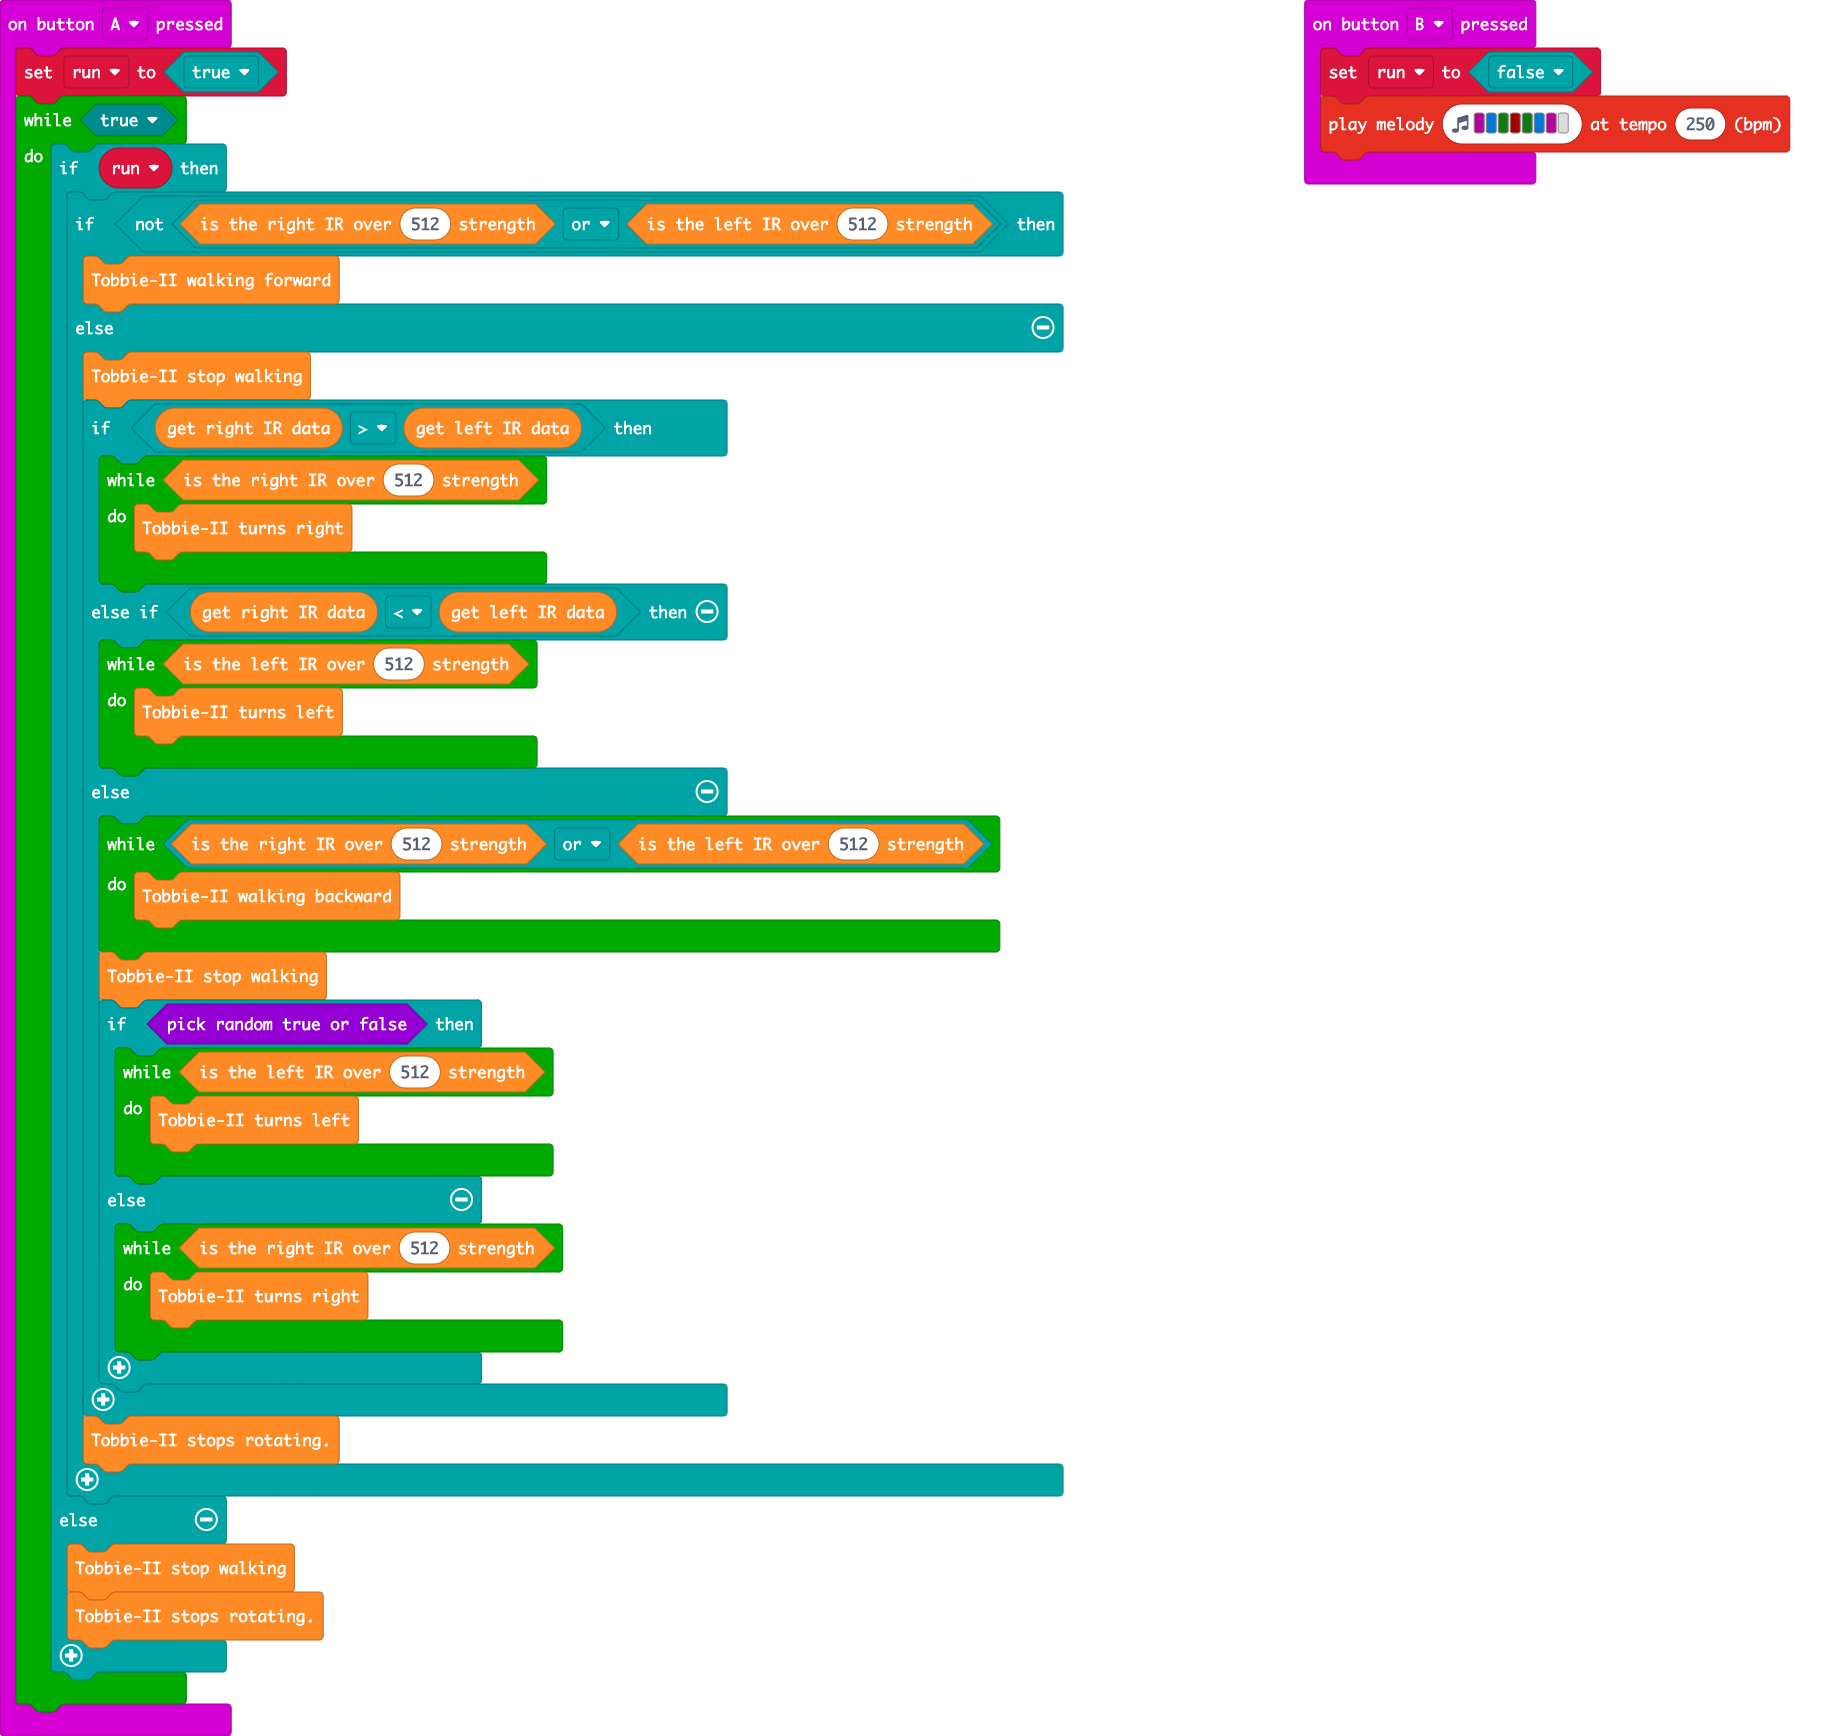
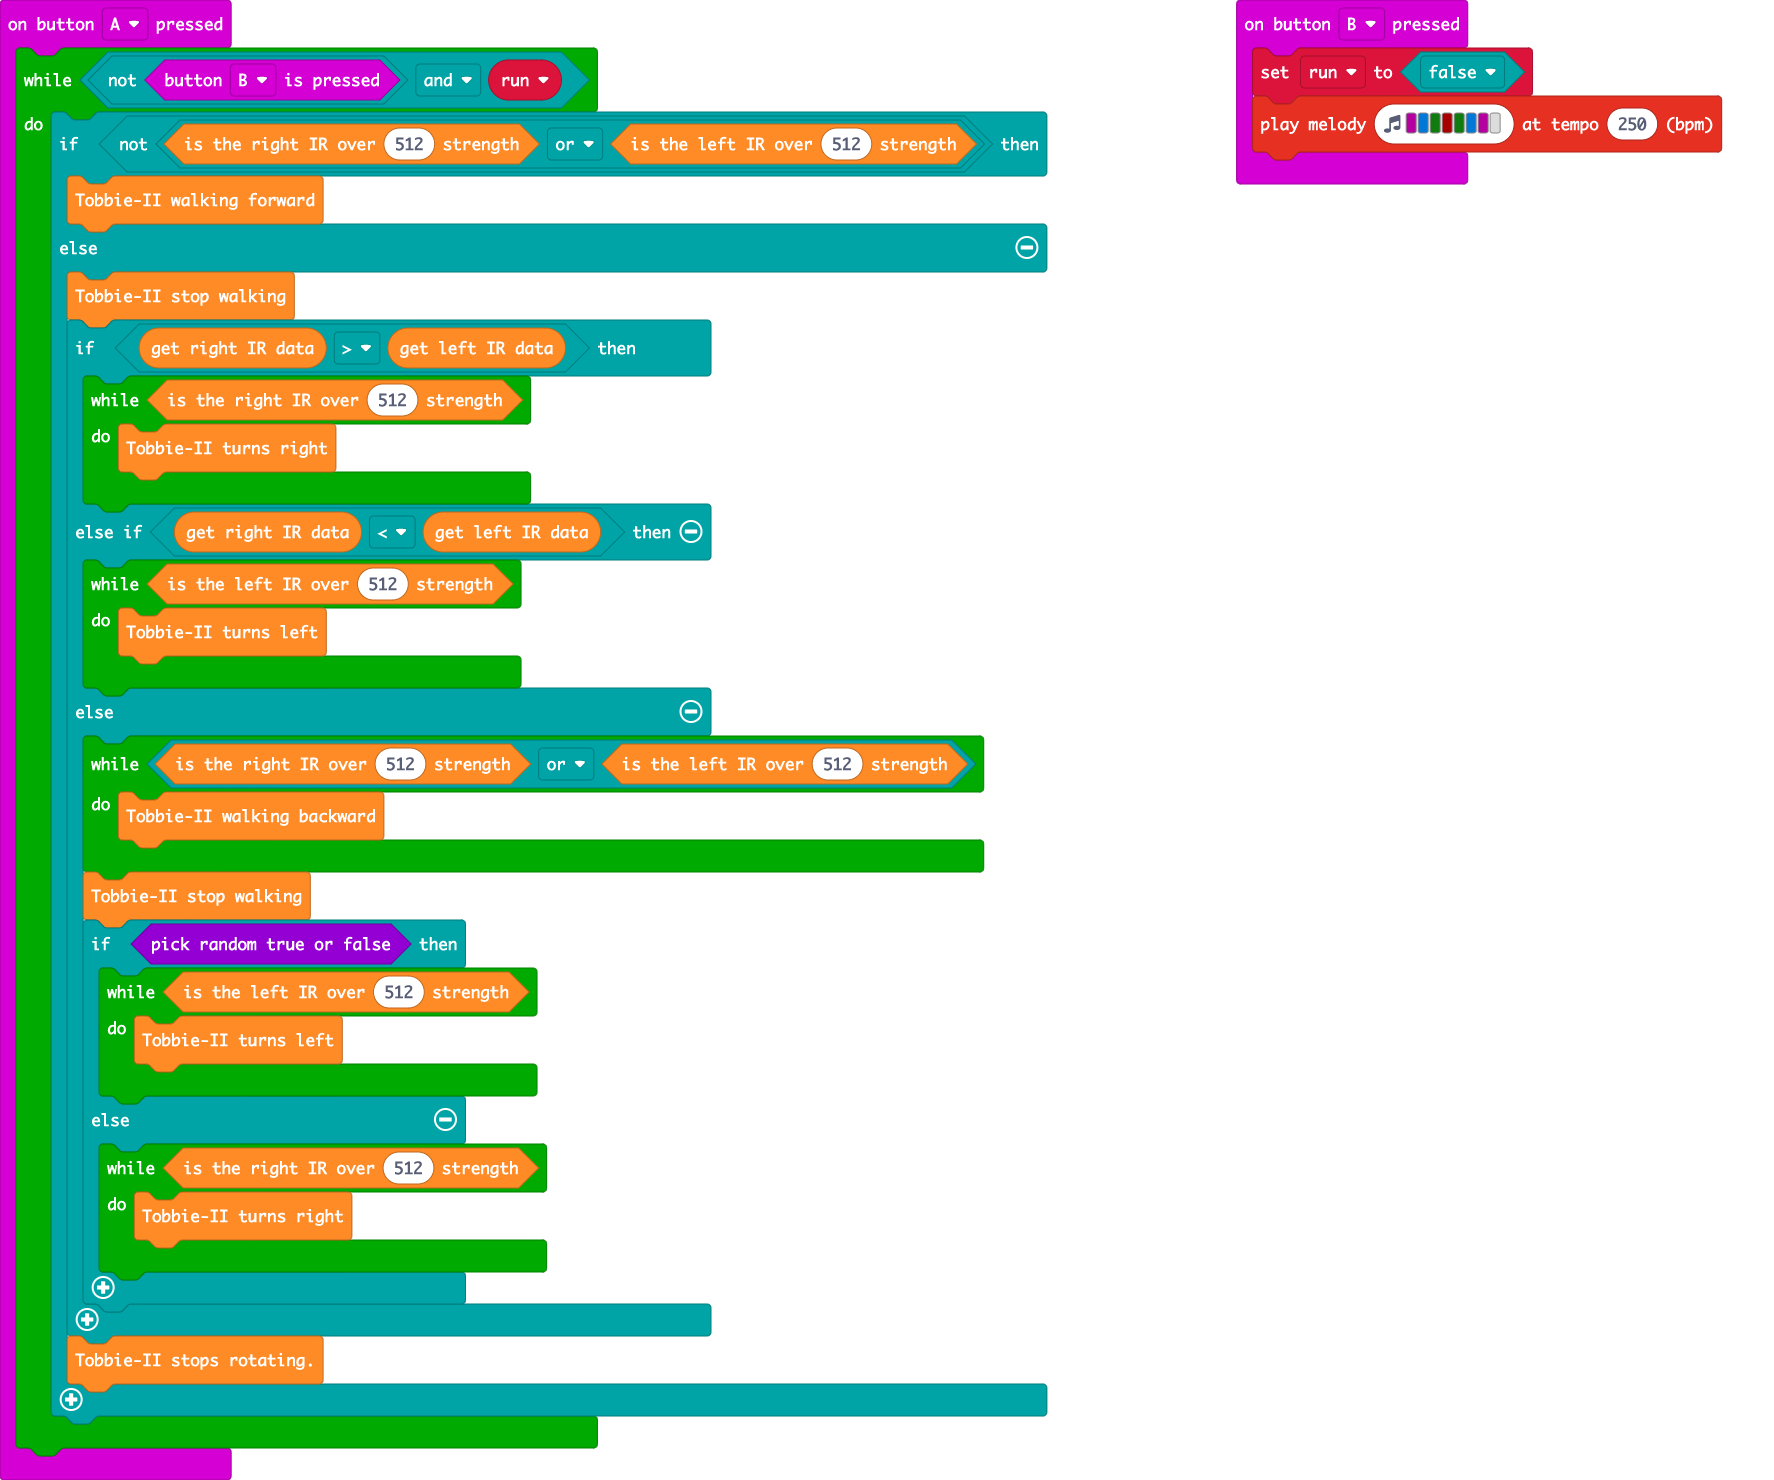
Update main.blocks, main.ts, main.py

Changed region(s): [[0.0, 0.0, 0.5891, 1.0], [0.6821, 0.0, 0.9921, 0.1243]]

diff --git a/main.ts b/main.ts
@@ -1,6 +1,5 @@
 let run = false
 input.onButtonPressed(Button.A, function on_button_pressed_a() {
-    
     while (!input.buttonIsPressed(Button.B) && run) {
         if (!(TobbieII.RBlock(512) || TobbieII.LBlock(512))) {
             TobbieII.forward()

diff --git a/main.py b/main.py
@@ -1,8 +1,7 @@
 run = False
 
 def on_button_pressed_a():
-    global run
-    while (not input.button_is_pressed(Button.B)) and run:
+    while not (input.button_is_pressed(Button.B)) and run:
         if not (TobbieII.rblock(512) or TobbieII.lblock(512)):
             TobbieII.forward()
         else:
@@ -24,9 +23,10 @@ def on_button_pressed_a():
                     while TobbieII.rblock(512):
                         TobbieII.right_ward()
             TobbieII.stop_turn()
+input.on_button_pressed(Button.A, on_button_pressed_a)
+
 def on_button_pressed_b():
     global run
     run = False
     music.play_melody("C E G C5 G E C - ", 250)
-input.on_button_pressed(Button.A, on_button_pressed_a)
 input.on_button_pressed(Button.B, on_button_pressed_b)
